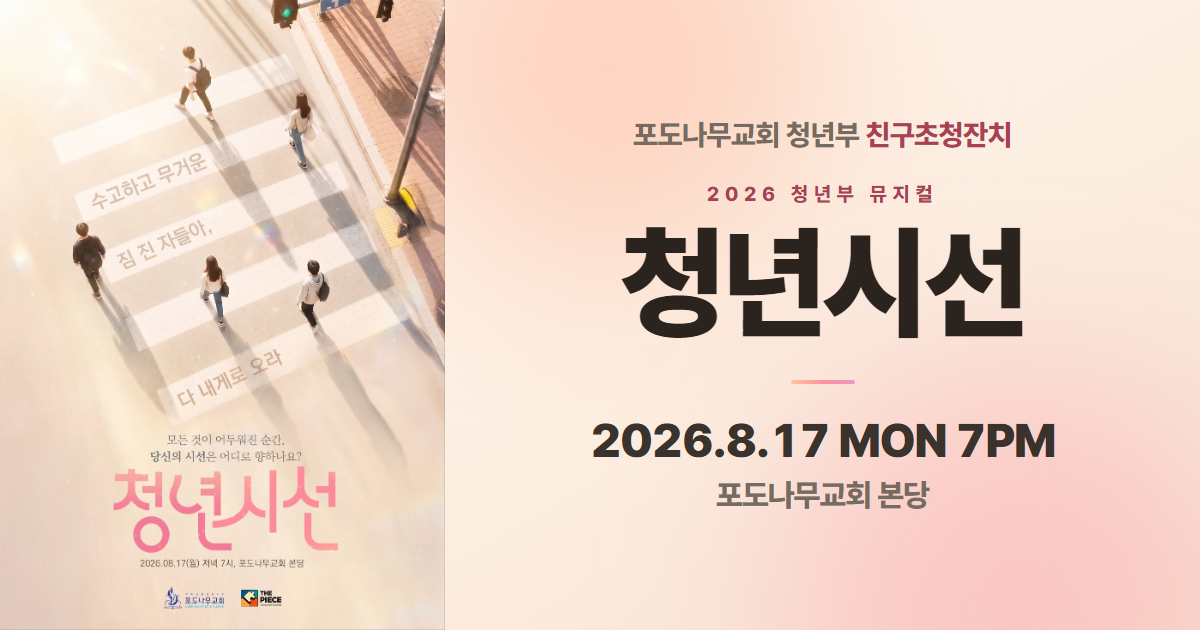
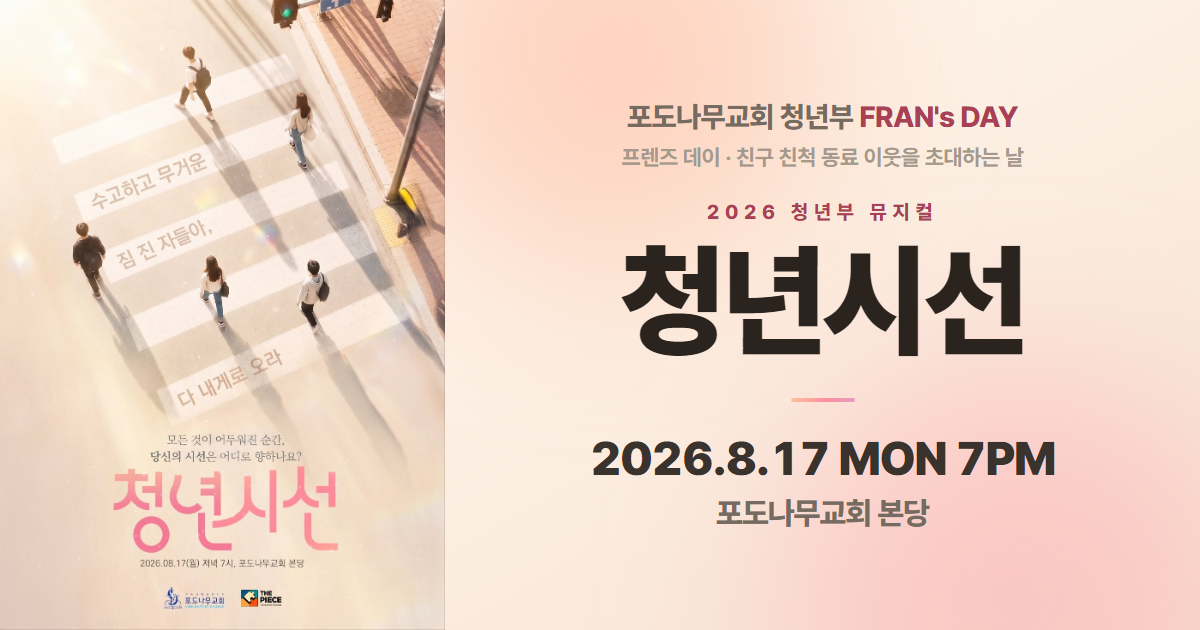
행사 명칭 FRAN's DAY 적용 · 이름 풀이 카드 추가
- 친구초청잔치 → FRAN's DAY (프렌즈 데이)로 전면 교체
- 인사말 위에 F·R·A·N 약자 풀이 카드 신설 (Friend/Relative/Associate/Neighbor)
- 카톡 썸네일(og-image) 문구 갱신 후 재생성 · og:image 버전 v4

Changed region(s): [[0.4933, 0.1508, 0.8633, 0.573], [0.4933, 0.6032, 0.8942, 0.8444]]

diff --git a/index.html b/index.html
@@ -6,26 +6,26 @@
     <meta name="viewport" content="width=device-width, initial-scale=1.0, viewport-fit=cover" />
     <meta name="theme-color" content="#fdf7ef" />
     <link rel="preload" as="image" href="/poster.webp" type="image/webp" fetchpriority="high" />
-    <meta name="description" content="포도나무교회 청년부 친구초청잔치 — 창작 뮤지컬 「청년시선」에 초대합니다. 2026.8.17 MON 7PM, 포도나무교회 본당. 뷔페 식사는 오후 5시 30분(신청자에 한함)." />
+    <meta name="description" content="포도나무교회 청년부 FRAN's DAY(프렌즈 데이) — 창작 뮤지컬 「청년시선」에 초대합니다. 2026.8.17 MON 7PM, 포도나무교회 본당. 뷔페 식사는 오후 5시 30분(신청자에 한함)." />
     <meta property="og:type" content="website" />
     <meta property="og:site_name" content="포도나무교회 청년부" />
     <meta property="og:url" content="https://friend-in-visitation-day.vercel.app/" />
-    <meta property="og:title" content="청년시선 · 친구초청잔치" />
+    <meta property="og:title" content="청년시선 · FRAN's DAY" />
     <meta property="og:description" content="2026.8.17 MON 7PM · 포도나무교회 본당" />
-    <meta property="og:image" content="https://friend-in-visitation-day.vercel.app/og-image.png?v=3" />
+    <meta property="og:image" content="https://friend-in-visitation-day.vercel.app/og-image.png?v=4" />
     <meta property="og:image:width" content="1200" />
     <meta property="og:image:height" content="630" />
     <meta name="twitter:card" content="summary_large_image" />
-    <meta name="twitter:title" content="청년시선 · 친구초청잔치" />
+    <meta name="twitter:title" content="청년시선 · FRAN's DAY" />
     <meta name="twitter:description" content="2026.8.17 MON 7PM · 포도나무교회 본당" />
-    <meta name="twitter:image" content="https://friend-in-visitation-day.vercel.app/og-image.png?v=3" />
+    <meta name="twitter:image" content="https://friend-in-visitation-day.vercel.app/og-image.png?v=4" />
     <link
       rel="stylesheet"
       as="style"
       crossorigin
       href="https://cdn.jsdelivr.net/gh/orioncactus/pretendard@v1.3.9/dist/web/variable/pretendardvariable-dynamic-subset.min.css"
     />
-    <title>청년시선 · 포도나무교회 청년부 친구초청잔치</title>
+    <title>청년시선 · 포도나무교회 청년부 FRAN's DAY</title>
   </head>
   <body>
     <div id="root"></div>

diff --git a/src/index.css b/src/index.css
@@ -1,4 +1,4 @@
-/* 청년시선 · 친구초청잔치 — 포스터 톤(크림 아이보리 + 코랄로즈) 모바일 초대장
+/* 청년시선 · FRAN's DAY — 포스터 톤(크림 아이보리 + 코랄로즈) 모바일 초대장
    폰트: Pretendard (index.html에서 로딩) */
 
 :root {
@@ -106,6 +106,13 @@ body {
 .hero__host-em {
   font-weight: 800;
   color: var(--rose-deep);
+}
+
+/* 행사 이름 한글 독음 */
+.hero__host-ko {
+  font-size: 12.5px;
+  font-weight: 700;
+  color: var(--ink-dim);
 }
 
 /* ---------- 공연 포스터 ---------- */
@@ -308,6 +315,78 @@ body {
 /* ---------- Details (인사말) ---------- */
 .details {
   padding: 24px 22px 0;
+}
+
+/* 행사 이름 풀이 카드 (F·R·A·N) */
+.fran {
+  margin: 0 0 14px;
+  padding: 22px 20px 20px;
+  border: 1px solid var(--line);
+  border-radius: 20px;
+  background: var(--card);
+}
+
+.fran__name {
+  margin: 0 0 16px;
+  text-align: center;
+  font-size: 16px;
+  font-weight: 800;
+  letter-spacing: 0.01em;
+  color: var(--rose-deep);
+}
+
+.fran__name-ko {
+  margin-left: 7px;
+  font-size: 12.5px;
+  font-weight: 700;
+  color: var(--ink-dim);
+}
+
+.fran__list {
+  list-style: none;
+  margin: 0;
+  padding: 0;
+}
+
+.fran__item {
+  display: grid;
+  grid-template-columns: 26px 1fr auto;
+  align-items: baseline;
+  gap: 0 10px;
+  padding: 9px 2px;
+}
+
+.fran__item + .fran__item {
+  border-top: 1px solid var(--line);
+}
+
+.fran__letter {
+  font-size: 17px;
+  font-weight: 900;
+  line-height: 1.2;
+  color: var(--rose);
+}
+
+.fran__en {
+  font-size: 13.5px;
+  font-weight: 700;
+  letter-spacing: 0.01em;
+  color: var(--ink);
+}
+
+.fran__ko {
+  font-size: 13px;
+  font-weight: 600;
+  color: var(--ink-soft);
+}
+
+.fran__note {
+  margin: 16px 0 0;
+  text-align: center;
+  font-size: 13px;
+  line-height: 1.7;
+  color: var(--ink-soft);
+  word-break: keep-all;
 }
 
 .details__intro {

diff --git a/src/data/event.ts b/src/data/event.ts
@@ -1,5 +1,11 @@
-// 친구초청잔치 · 뮤지컬 「청년시선」 초대장
+// FRAN's DAY · 뮤지컬 「청년시선」 초대장
 // 행사 정보는 이 파일만 수정하면 전체 페이지에 반영됩니다.
+
+export interface FranItem {
+  letter: string
+  en: string
+  ko: string
+}
 
 export interface ScheduleItem {
   id: string
@@ -14,7 +20,10 @@ export interface ScheduleItem {
 
 export const event = {
   host: '포도나무교회 청년부',
-  eventName: '친구초청잔치',
+  eventName: "FRAN's DAY",
+  eventNameKo: '프렌즈 데이',
+  // 행사 이름 풀이 (F·R·A·N)
+  franNote: '평소 교회에 함께 오고 싶었던 지인들을 초대하는 날입니다.',
   title: '청년시선',
   // 포스터 대체 텍스트 (이미지가 안 보이거나 화면 낭독기를 쓸 때 읽히는 문구)
   posterAlt:
@@ -38,6 +47,14 @@ export const event = {
   // 타임테이블 아래 작은 안내 (마침 시각은 순서 목록에 함께 표시됩니다)
   scheduleNote: '순서별 시간은 조금 달라질 수 있습니다.',
 } as const
+
+// 행사 이름 FRAN 풀이 — 인사말 위 카드에 표시됩니다.
+export const fran: FranItem[] = [
+  { letter: 'F', en: 'Friend', ko: '친구' },
+  { letter: 'R', en: 'Relative', ko: '친척' },
+  { letter: 'A', en: 'Associate', ko: '동료' },
+  { letter: 'N', en: 'Neighbor', ko: '이웃' },
+]
 
 // 네이버 지도 장소 링크 (모바일=앱, PC=웹으로 정확히 열림)
 export const naverPlaceUrl = 'https://naver.me/FCZ7JYIg'

diff --git a/src/components/EventDetails.tsx b/src/components/EventDetails.tsx
@@ -1,8 +1,29 @@
-import { event } from '../data/event'
+import { event, fran } from '../data/event'
 
 export default function EventDetails() {
   return (
     <section className="details">
+      <div className="fran">
+        <p className="fran__name">
+          {event.eventName}
+          <span className="fran__name-ko">{event.eventNameKo}</span>
+        </p>
+
+        <ul className="fran__list">
+          {fran.map((item) => (
+            <li className="fran__item" key={item.letter}>
+              <span className="fran__letter" aria-hidden="true">
+                {item.letter}
+              </span>
+              <span className="fran__en">{item.en}</span>
+              <span className="fran__ko">{item.ko}</span>
+            </li>
+          ))}
+        </ul>
+
+        <p className="fran__note">{event.franNote}</p>
+      </div>
+
       <p className="details__intro">{event.greeting}</p>
     </section>
   )

diff --git a/scripts/og-template.html b/scripts/og-template.html
@@ -72,6 +72,13 @@
         color: #756b61;
       }
       .host b { font-weight: 800; color: #a94054; }
+      .host-sub {
+        margin-top: 10px;
+        font-size: 22px;
+        font-weight: 700;
+        letter-spacing: -0.01em;
+        color: #a6998c;
+      }
 
       .kicker {
         margin-top: 30px;
@@ -122,7 +129,8 @@
         <span class="bloom bloom--1"></span>
         <span class="bloom bloom--2"></span>
 
-        <p class="host">포도나무교회 청년부 <b>친구초청잔치</b></p>
+        <p class="host">포도나무교회 청년부 <b>FRAN's DAY</b></p>
+        <p class="host-sub">프렌즈 데이 · 친구 친척 동료 이웃을 초대하는 날</p>
         <p class="kicker">2026 청년부 뮤지컬</p>
         <h1 class="title">청년시선</h1>
         <span class="rule"></span>

diff --git a/src/components/Hero.tsx b/src/components/Hero.tsx
@@ -5,7 +5,8 @@ export default function Hero() {
   return (
     <header className="hero">
       <p className="hero__host">
-        {event.host} <b className="hero__host-em">{event.eventName}</b>
+        {event.host} <b className="hero__host-em">{event.eventName}</b>{' '}
+        <span className="hero__host-ko">{event.eventNameKo}</span>
       </p>
 
       <Poster />

diff --git a/README.md b/README.md
@@ -1,6 +1,8 @@
-# 청년시선 · 친구초청잔치 초대장
+# 청년시선 · FRAN's DAY 초대장
 
-포도나무교회 청년부 **친구초청잔치** 초대장 웹페이지입니다.
+포도나무교회 청년부 **FRAN's DAY(프렌즈 데이)** 초대장 웹페이지입니다.
+행사 이름은 Friend(친구) · Relative(친척) · Associate(동료) · Neighbor(이웃)의 약자로,
+평소 교회에 함께 오고 싶었던 지인들을 초대하는 날입니다.
 창작 뮤지컬 「청년시선」(2026) 공연 안내와 뷔페 식사 안내, 오시는 길(포도나무교회)을 담고 있습니다.
 
 - **일시**: 2026년 8월 17일 (월) 저녁 7시 · 뷔페 식사 오후 5시 30분(신청자에 한함)
@@ -27,7 +29,7 @@ npm run preview  # 빌드 결과 미리보기
 | --- | --- | --- |
 | 히어로 | `src/components/Hero.tsx` | 주최 머리글 · 공연 포스터 · 일시/장소 정보란 · 섹션 바로가기 |
 | 포스터 | `src/components/Poster.tsx` | 포스터 이미지 + 눌러서 크게 보기(전체화면) |
-| 인사말 | `src/components/EventDetails.tsx` | 초대 인사말(`greeting`) |
+| 이름 풀이 · 인사말 | `src/components/EventDetails.tsx` | FRAN 약자 카드(`fran`, `franNote`) + 초대 인사말(`greeting`) |
 | 당일 순서 | `src/components/Schedule.tsx` | 뷔페 / 찬양 / 뮤지컬 / 말씀 + 종료 시각·뷔페 안내 |
 | 오시는 길 | `src/components/MapSection.tsx` | 지도 · 주소 복사 · 지도 앱 연결 |
 | 푸터 | `src/components/Footer.tsx` | 마무리 문구(컴포넌트에 직접 작성) |
@@ -72,12 +74,14 @@ src/data/event.ts
 ```
 
 - `event`
-  - 주최·공연명: `host`, `eventName`, `title`
+  - 주최·공연명: `host`, `eventName`(FRAN's DAY), `eventNameKo`(프렌즈 데이), `title`
+  - 이름 풀이: `franNote` (약자 목록은 같은 파일의 `fran` 배열)
   - 포스터 설명: `posterAlt`
   - 히어로 정보란: `dateLong`(2026년 8월 17일 (월)), `timeLong`(저녁 7시)
   - 인사말: `greeting`
   - 장소: `venueName`, `venueHall`, `venueAddress`, `venueNote` (히어로·오시는 길에서 함께 사용)
   - 안내 문구: `scheduleNote`(종료 시각), `mealNotice`(뷔페 사전 신청), `mealCostNotice`(식사비 — 청년 무료 / 장년 유료, 초대하는 분 부담. **금액 미정, 확정되면 문구 수정 필요**)
+- `fran` : 행사 이름 약자 배열 (`letter` / `en` / `ko`)
 - `schedule` : 당일 순서 배열 (뷔페 / 찬양 / 뮤지컬 / 말씀)
 - 지도 관련 값: `naverPlaceUrl`, `kakaoPlaceUrl`, `naverPlaceId`, `venueCoord`
 
